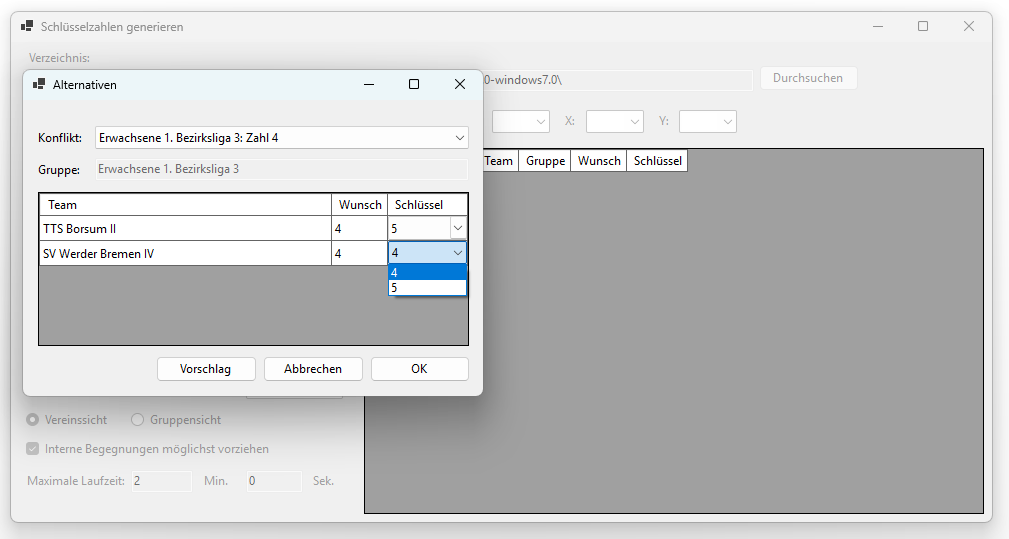
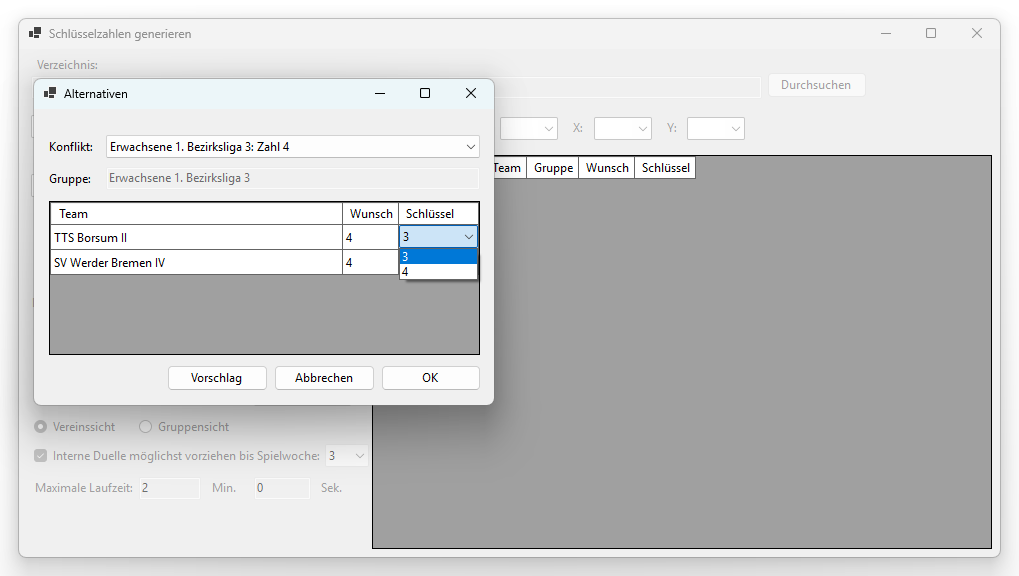
Update screenshots

diff --git a/doc/md/06_generierung.md b/doc/md/06_generierung.md
@@ -13,6 +13,12 @@ Das Kontrollkästchen **Interne Duelle möglichst vorziehen bis Spielwoche:** (u
 3. Vor der Generierung wird automatisch eine Sicherheitskopie des aktuellen Standes angelegt, die Sie bei Bedarf später wiederherstellen können (siehe [7.1 Backup laden](07_sonstige_funktionen.md#71-backup-laden)).
 4. Sie können die Generierung jederzeit über den Button **Abbrechen** vorzeitig beenden. Die Anwendung übernimmt dann die bis dahin beste gefundene Lösung und fährt wie nach einer regulär beendeten Generierung fort (gegebenenfalls mit der Konfliktauflösung). Wurde bis dahin noch keine Lösung gefunden, erscheint die Meldung "Es konnten keine Schlüsselzahlen ermittelt werden!", und der bisherige Stand bleibt erhalten.
 
+> **Ansicht: Fenster „Bitte Warten"**
+>
+> Das Fenster „Bitte Warten" während einer Generierung: verbleibende Zeit, Fortschrittsbalken und die Kennzahlen der bisher besten Lösung.
+>
+> ![Fenster „Bitte Warten" während der Generierung](../png/062-bitte-warten.png)
+
 **Hinweis:** Vor der Generierung wird eine Plausibilitätsprüfung durchgeführt.
 Wenn widersprüchliche Vorgaben erkannt werden (z.B. inkonsistente Spieltagsvorgaben für Teams desselben Vereins in derselben Spielwoche), erscheint eine Fehlermeldung.
 
@@ -30,7 +36,7 @@ Das Fenster zeigt folgende Informationen:
   - **Wunsch**: Die eigentlich gewünschten Schlüsselzahlen der Mannschaft.
   - **Schlüssel**: Dropdown-Menü, über das Sie der Mannschaft eine andere Schlüsselzahl zuweisen können.
 
-Zur Auswahl stehen die ursprünglich gewünschte Schlüsselzahl sowie bis zu zwei ähnliche Schlüsselzahlen, die noch frei sind und zu den Heim-/Auswärtsvorgaben der Mannschaft passen. Die aktuell zugewiesene Schlüsselzahl bleibt ebenfalls auswählbar.
+Zur Auswahl stehen die ursprünglich gewünschte Schlüsselzahl sowie bis zu zwei ähnliche Schlüsselzahlen, die noch frei sind und zu den Heim-/Auswärtsvorgaben der Mannschaft passen. Die aktuell zugewiesene Schlüsselzahl bleibt ebenfalls auswählbar. Angeboten werden nur die gewünschte und dazu ähnliche Schlüsselzahlen, damit jede Mannschaft wie bei der Generierung eine gewünschte oder ähnliche Schlüsselzahl behält. Nach einer Generierung sind darunter immer mindestens so viele Schlüsselzahlen, wie Mannschaften am Konflikt beteiligt sind, sodass jede Mannschaft eine eigene Schlüsselzahl erhalten kann; reichen die zwei ähnlichen Schlüsselzahlen dafür nicht aus, werden weitere freie ähnliche Schlüsselzahlen angeboten.
 
 **Vorschlag:** Über den Button **Vorschlag** können Sie einen automatischen Lösungsvorschlag generieren lassen, der alle Konflikte nach einem festen Verfahren auflöst (bei gleichen Daten ergibt sich stets derselbe Vorschlag). Vorher erscheint ein Warnhinweis: Dies sollten Sie im Interesse der betroffenen Vereine nur zu Testzwecken tun, und nicht zur Ermittlung der finalen Schlüsselzahlen!
 
@@ -41,7 +47,7 @@ Zur Auswahl stehen die ursprünglich gewünschte Schlüsselzahl sowie bis zu zwe
 > ![Fenster „Alternativen" – Konflikte beheben](../png/061-konflikte-auflösen.png)
 
 Klicken Sie auf **OK**, nachdem Sie jeden Konflikt gelöst haben.
-Falls eine Schlüsselzahl in einer Gruppe noch mehrfach vergeben ist (auch an eine Mannschaft außerhalb des Konflikts) oder für eine Mannschaft keine Schlüsselzahl vergeben wurde, erscheint eine entsprechende Fehlermeldung.
+Falls eine Schlüsselzahl in einer Gruppe noch mehrfach vergeben ist (auch an eine Mannschaft außerhalb des Konflikts), für eine Mannschaft keine Schlüsselzahl vergeben wurde oder eine Mannschaft eine Schlüsselzahl hat, die weder die gewünschte noch eine ähnliche ist, erscheint eine entsprechende Fehlermeldung, und das Fenster bleibt geöffnet, damit Sie die Konflikte in einem weiteren Durchgang lösen können.
 Sie können die Konfliktauflösung beenden, indem Sie auf den Button **Abbrechen** klicken oder das Fenster schließen und die Sicherheitsabfrage bestätigen.
 Die verbliebenen Konflikte können zu einem späteren Zeitpunkt über **Sonstiges** → **Konflikte neu auflösen** (siehe [7.4 Konflikte neu auflösen](07_sonstige_funktionen.md#74-konflikte-neu-aufloesen)) aufgelöst werden.
 
@@ -73,11 +79,11 @@ Mithilfe dieser Übersicht können Sie die Schlüsselzahlen in Click-TT oder in 
 >
 > Alle 12 Schlüsselzahlen (1–12) sind genau einmal vergeben – es gibt keine Konflikte.
 > Die Spalte "Wunsch" zeigt die aus der Vereins-Schlüsselzahl abgeleiteten Wunschzahlen.
-> Beim 1. FC Saarbrücken-TT I ist kein Wunsch eingetragen, da der Verein keine vorgegebene Schlüsselzahl und auch keine Spielwoche hatte – die Zeile ist daher weiß, und die Zahl 4 wurde frei zugewiesen.
+> Beim 1. FC Saarbrücken-TT I ist kein Wunsch eingetragen, da der Verein keine vorgegebene Schlüsselzahl und auch keine Spielwoche hatte – die Zeile ist daher weiß, und die Zahl 6 wurde frei zugewiesen.
 
 > **Beispiel: Gruppensicht 1. Bezirksliga 3 Erwachsene nach der Generierung**
 >
-> Die 1. Bezirksliga 3 enthält nach der Generierung einen aufgelösten Konflikt: Die orange markierte Zeile kennzeichnet ein Team, bei dem die zugewiesene Schlüsselzahl von der Wunsch-Schlüsselzahl abweicht. Im Vorfeld wurde ein Konflikt zwischen SV Werder Bremen IV und TTS Borsum II dahingehend aufgelöst, dass Bremen die Schlüsselzahl 4, und Borsum die ähnliche Schlüsselzahl 5 zugewiesen wurde (Abschnitt 6.1 Konflikte beheben).
+> Die 1. Bezirksliga 3 enthält nach der Generierung einen aufgelösten Konflikt: Die orange markierte Zeile kennzeichnet ein Team, bei dem die zugewiesene Schlüsselzahl von der Wunsch-Schlüsselzahl abweicht. Im Vorfeld wurde ein Konflikt zwischen SV Werder Bremen IV und TTS Borsum II dahingehend aufgelöst, dass Bremen die Schlüsselzahl 4, und Borsum die ähnliche Schlüsselzahl 3 zugewiesen wurde (Abschnitt 6.1 Konflikte beheben).
 >
 > ![Gruppensicht mit Konflikt (orange markierte Zeilen)](../png/063-gruppensicht-mit-konflikt.png)
 
@@ -93,7 +99,7 @@ Mithilfe dieser Übersicht können Sie die Schlüsselzahlen in Click-TT oder in 
 > - Alle Teams in Woche B erhalten Schlüsselzahl **1** – die gegenläufige Zahl zu 7 im 12er-Raster.
 > - Alle Teams in Woche X erhalten Schlüsselzahl **1** (Vereins-Schlüsselzahl für Spielwoche X im 10er-Raster).
 > - Alle Teams in Woche Y erhalten Schlüsselzahl **6** – die gegenläufige Zahl zu 1 im 10er-Raster.
-> - **Ausnahme**: Borussia Duesseldorf II in der Jugend 13 hat Schlüsselzahl **10** statt 1, obwohl es in Woche X spielt. Das liegt daran, dass zwei Teams desselben Vereins in derselben Gruppe spielen und daher nicht dieselbe Schlüsselzahl erhalten können. Die Zahl 10 ist im 10er-Raster eine *ähnliche* Schlüsselzahl zu 1.
+> - **Ausnahme**: Borussia Duesseldorf I in der Jugend 13 hat Schlüsselzahl **10** statt 1, obwohl es in Woche X spielt. Das liegt daran, dass zwei Teams desselben Vereins in derselben Gruppe spielen und daher nicht dieselbe Schlüsselzahl erhalten können. Die Zahl 10 ist im 10er-Raster eine *ähnliche* Schlüsselzahl zu 1.
 
 
 

diff --git a/doc-web/md/06_generierung.md b/doc-web/md/06_generierung.md
@@ -42,7 +42,7 @@ Die Seite ist in zwei Bereiche unterteilt:
 | Wunsch | Die eigentlich gewünschte Schlüsselzahl der Mannschaft |
 | Schlüssel | Dropdown-Menü, über das Sie der Mannschaft eine andere Schlüsselzahl zuweisen können |
 
-Zur Auswahl stehen die ursprünglich gewünschte Schlüsselzahl sowie bis zu zwei ähnliche Schlüsselzahlen, die noch frei sind und zu den Heim-/Auswärtsvorgaben der Mannschaft passen. Die aktuell zugewiesene Schlüsselzahl bleibt ebenfalls auswählbar.
+Zur Auswahl stehen die ursprünglich gewünschte Schlüsselzahl sowie bis zu zwei ähnliche Schlüsselzahlen, die noch frei sind und zu den Heim-/Auswärtsvorgaben der Mannschaft passen. Die aktuell zugewiesene Schlüsselzahl bleibt ebenfalls auswählbar. Angeboten werden nur die gewünschte und dazu ähnliche Schlüsselzahlen, damit jede Mannschaft wie bei der Generierung eine gewünschte oder ähnliche Schlüsselzahl behält. Nach einer Generierung sind darunter immer mindestens so viele Schlüsselzahlen, wie Mannschaften am Konflikt beteiligt sind, sodass jede Mannschaft eine eigene Schlüsselzahl erhalten kann; reichen die zwei ähnlichen Schlüsselzahlen dafür nicht aus, werden weitere freie ähnliche Schlüsselzahlen angeboten.
 
 **Vorschlag:** Über den Button **Vorschlag** können Sie einen automatischen Lösungsvorschlag generieren lassen, der alle Konflikte nach einem festen Verfahren auflöst (bei gleichen Daten ergibt sich stets derselbe Vorschlag). Vorher erscheint ein Warnhinweis: Dies sollten Sie im Interesse der betroffenen Vereine nur zu Testzwecken tun, und nicht zur Ermittlung der finalen Schlüsselzahlen!
 
@@ -53,7 +53,7 @@ Zur Auswahl stehen die ursprünglich gewünschte Schlüsselzahl sowie bis zu zwe
 > ![Seite „Konflikte auflösen"](../png/061-konflikte-auflösen.png)
 
 Klicken Sie auf **Anwenden & zur Übersicht**, nachdem Sie jeden Konflikt gelöst haben.
-Falls eine Schlüsselzahl in einer Gruppe noch mehrfach vergeben ist (auch an eine Mannschaft außerhalb des Konflikts) oder für eine Mannschaft keine Schlüsselzahl vergeben wurde, erscheint eine entsprechende Fehlermeldung, und die Seite bleibt geöffnet.
+Falls eine Schlüsselzahl in einer Gruppe noch mehrfach vergeben ist (auch an eine Mannschaft außerhalb des Konflikts), für eine Mannschaft keine Schlüsselzahl vergeben wurde oder eine Mannschaft eine Schlüsselzahl hat, die weder die gewünschte noch eine ähnliche ist, erscheint eine entsprechende Fehlermeldung, und die Seite bleibt geöffnet.
 Sie können die Konfliktauflösung abbrechen, indem Sie über die Seitenleiste zur Übersicht navigieren.
 Die verbliebenen Konflikte können zu einem späteren Zeitpunkt über den Link **Konflikte auflösen** in der Seitenleiste erneut aufgelöst werden (siehe [6.2 Konflikte auflösen](#62-konflikte-aufloesen)).
 
@@ -104,16 +104,16 @@ Mithilfe dieser Übersicht können Sie die Schlüsselzahlen in Click-TT oder in 
 > **Beispiel: Vereinsansicht – Vergabe von parallelen und gegenläufigen Schlüsselzahlen**
 >
 > Der folgende Screenshot zeigt die ermittelten Schlüsselzahlen für die Mannschaften von Borussia Duesseldorf.
-> Durch die Generierung wurden die Vereins-Schlüsselzahlen **A=2, B=8, X=5, Y=10** ermittelt:
+> Durch die Generierung wurden die Vereins-Schlüsselzahlen **A=7, B=1, X=1, Y=6** ermittelt:
 >
 > ![Vereinsansicht nach der Generierung](../png/063-vereinssicht-nach-generierung.png)
 >
 > An diesem Beispiel lassen sich mehrere Aspekte ablesen:
-> - Alle Teams in Woche A erhalten Schlüsselzahl **2** (die Vereins-Schlüsselzahl für Spielwoche A).
-> - Alle Teams in Woche B erhalten Schlüsselzahl **8** – die gegenläufige Zahl zu 2 im 12er-Raster.
-> - Alle Teams in Woche X erhalten Schlüsselzahl **5** (Vereins-Schlüsselzahl für Spielwoche X im 10er-Raster).
-> - Alle Teams in Woche Y erhalten Schlüsselzahl **10** – die gegenläufige Zahl zu 5 im 10er-Raster.
-> - **Ausnahme**: Borussia Duesseldorf II in der Jugend 13 hat Schlüsselzahl **6** statt 5, obwohl es in Woche X spielt. Das liegt daran, dass zwei Teams desselben Vereins in derselben Gruppe spielen und daher nicht dieselbe Schlüsselzahl erhalten können. Die Zahl 6 ist im 10er-Raster eine *ähnliche* Schlüsselzahl zu 5.
+> - Alle Erwachsenen-Teams in Woche A erhalten Schlüsselzahl **7** (die Vereins-Schlüsselzahl für Spielwoche A). Die Damen-Mannschaft spielt ebenfalls in Woche A, aber in einer Gruppe mit Rastergröße 10, und erhält daher die *parallele* Schlüsselzahl **6**.
+> - Alle Teams in Woche B erhalten Schlüsselzahl **1** – die gegenläufige Zahl zu 7 im 12er-Raster.
+> - Alle Teams in Woche X erhalten Schlüsselzahl **1** (Vereins-Schlüsselzahl für Spielwoche X im 10er-Raster).
+> - Alle Teams in Woche Y erhalten Schlüsselzahl **6** – die gegenläufige Zahl zu 1 im 10er-Raster.
+> - **Ausnahme**: Borussia Duesseldorf II in der Jugend 13 hat Schlüsselzahl **10** statt 1, obwohl es in Woche X spielt. Das liegt daran, dass zwei Teams desselben Vereins in derselben Gruppe spielen und daher nicht dieselbe Schlüsselzahl erhalten können. Die Zahl 10 ist im 10er-Raster eine *ähnliche* Schlüsselzahl zu 1.
 
 Zusätzlich können Sie die Ergebnisse über den Link **Ergebnisse exportieren** in der Seitenleiste als CSV-Datei herunterladen (siehe [7.2 Ergebnisse exportieren](07_sonstige_funktionen.md#72-ergebnisse-exportieren)).
 

diff --git a/doc-web/md/A_datenmodell.md b/doc-web/md/A_datenmodell.md
@@ -48,11 +48,11 @@ Zentrale Konzepte:
 >
 > ![Vereinsansicht nach der Generierung](../png/063-vereinssicht-nach-generierung.png)
 >
-> **Gegenläufige Schlüsselzahlen:** Der Verein hat Schlüsselzahl A=2 und B=8 (Referenzraster 12). Die Zahl 8 ist die gegenläufige Zahl zu 2 im 12er-Raster: Wenn Schlüsselzahl 2 an einem bestimmten Spieltag ein Heimspiel vorsieht, hat Schlüsselzahl 8 an diesem Spieltag ein Auswärtsspiel und umgekehrt. Ebenso gilt: X=5 und Y=10 sind gegenläufig im 10er-Raster.
+> **Gegenläufige Schlüsselzahlen:** Der Verein hat Schlüsselzahl A=7 und B=1 (Referenzraster 12). Die Zahl 1 ist die gegenläufige Zahl zu 7 im 12er-Raster: Wenn Schlüsselzahl 7 an einem bestimmten Spieltag ein Heimspiel vorsieht, hat Schlüsselzahl 1 an diesem Spieltag ein Auswärtsspiel und umgekehrt. Ebenso gilt: X=1 und Y=6 sind gegenläufig im 10er-Raster.
 >
-> **Parallele Schlüsselzahlen:** Borussia Duesseldorf I spielt in der Bezirksoberliga (Rastergröße 12) mit Vereins-Schlüsselzahl A=2 und erhält die Mannschafts-Schlüsselzahl 2. Die Damen-Mannschaft spielt dagegen in einer Gruppe mit Rastergröße 10. Auch sie ist in Woche A und erhält ebenfalls Schlüsselzahl 2 – in diesem Fall ist die parallele Schlüsselzahl im 10er-Raster zufällig identisch. Wäre die Damen-Mannschaft der Woche B zugeordnet, würde sie die Schlüsselzahl 7 bekommen, da die Zahl 7 im 10er-Raster parallel zur Zahl 8 im 12er-Raster ist.
+> **Parallele Schlüsselzahlen:** Borussia Duesseldorf I spielt in der Bezirksoberliga (Rastergröße 12) mit Vereins-Schlüsselzahl A=7 und erhält die Mannschafts-Schlüsselzahl 7. Die Damen-Mannschaft spielt dagegen in einer Gruppe mit Rastergröße 10. Auch sie ist in Woche A, erhält aber die Schlüsselzahl 6, da die Zahl 6 im 10er-Raster parallel zur Zahl 7 im 12er-Raster ist. Wäre die Damen-Mannschaft der Woche B zugeordnet, würde sie die Schlüsselzahl 1 bekommen – in diesem Fall wäre die parallele Schlüsselzahl im 10er-Raster zufällig identisch.
 >
-> **Ähnliche Schlüsselzahlen:** In der Jugend 13 2. Bezirksliga 3 spielen zwei Teams des Vereins in derselben Gruppe (Rastergröße 10), und sind beide der Spielwoche X zugeordnet. Das eine Team (Borussia Duesseldorf I) erhält die Schlüsselzahl 5, das andere Team (Borussia Duesseldorf II) kann aber nicht ebenfalls Schlüsselzahl 5 erhalten und bekommt stattdessen die *ähnliche* Schlüsselzahl 6, die einen ähnlichen, aber nicht identischen Spielplan ergibt.
+> **Ähnliche Schlüsselzahlen:** In der Jugend 13 2. Bezirksliga 3 spielen zwei Teams des Vereins in derselben Gruppe (Rastergröße 10), und sind beide der Spielwoche X zugeordnet. Das erste Team erhält die Schlüsselzahl 1, das zweite Team kann aber nicht ebenfalls Schlüsselzahl 1 erhalten und bekommt stattdessen die *ähnliche* Schlüsselzahl 10, die einen ähnlichen, aber nicht identischen Spielplan ergibt.
 
 ## A.5 Spielwochen
 
@@ -66,10 +66,10 @@ Für jede Mannschaft, die einer Spielwoche S zugeordnet ist, ist garantiert, das
 >
 > | Woche | Altersklassen | Ref.-Raster | Vereins-SZ | Anz. Teams |
 > |-------|---------------|-------------|------------|------------|
-> | A | Erwachsene I & II, Damen | 12 | 2 | 3 |
-> | B | Erwachsene III–V | 12 | 8 | 3 |
-> | X | Jugend 19 I & III, 15 I, 13 I & II | 10 | 5 | 5 |
-> | Y | Jugend 19 II & IV, 15 II | 10 | 10 | 3 |
+> | A | Erwachsene I & II, Damen | 12 | 7 | 3 |
+> | B | Erwachsene III–V | 12 | 1 | 3 |
+> | X | Jugend 19 I & III, 15 I, 13 I & II | 10 | 1 | 5 |
+> | Y | Jugend 19 II & IV, 15 II | 10 | 6 | 3 |
 >
 > Die Erwachsenen-Mannschaften I und II und die Damen-Mannschaft spielen in Woche A, die Erwachsenen III–V in der gegenläufigen Woche B. So haben beide Gruppen abwechselnd Heimrecht in der Halle. Die Jugendmannschaften nutzen die Wochen X und Y, die einem anderen Spielrhythmus (Referenzraster 10) folgen.
 

diff --git a/doc/md/09_fehlerbehebung.md b/doc/md/09_fehlerbehebung.md
@@ -16,7 +16,7 @@ Die folgende Tabelle enthält eine Übersicht über häufig auftretende Fehler u
 | Fehlermeldung "Die Gruppe … ist voll (Raster …). Es kann keine weitere Mannschaft hinzugefügt werden." | Die Gruppe enthält bereits so viele Mannschaften, wie ihre Rastergröße zulässt; die Mannschaft wird nicht hinzugefügt. Erhöhen Sie zunächst die Rastergröße der Gruppe (siehe [4.2 Manueller Datenimport: Gruppentabelle](04_datenimport.md#linke-seite-gruppentabelle)) und fügen Sie die Mannschaft anschließend hinzu. |
 | Fehlermeldung "Ungültige Eingabe: Der Teamname muss mit dem Vereinsnamen (…) beginnen!" beim Umbenennen einer Mannschaft | Der neue Teamname beginnt nicht mit dem Namen des Vereins; die Eingabe wird automatisch zurückgesetzt. Behalten Sie den Vereinsnamen am Anfang des Teamnamens bei (z.B. "Borussia Duesseldorf II", siehe [4.2 Manueller Datenimport: Mannschaftstabelle](04_datenimport.md#rechte-seite-mannschaftstabelle)). |
 | Eingetragene Vereins-Schlüsselzahl wird nicht übernommen | Die Zahl liegt außerhalb des Referenzrasters der Spielwoche (also nicht zwischen 1 und der Rastergröße des Referenzrasters A/B bzw. X/Y) und wird abgewiesen. Tragen Sie eine Zahl aus diesem Bereich ein (siehe [4.2 Manueller Datenimport: Vereinstabelle](04_datenimport.md#mittlere-seite-vereinstabelle)). |
-| Fehlermeldung beim Klick auf **OK** im Fenster "Alternativen" | Es gibt noch ungelöste Konflikte (eine Schlüsselzahl ist in einer Gruppe mehrfach vergeben, auch an eine Mannschaft außerhalb des Konflikts) oder eine Mannschaft hat keine Schlüsselzahl. Die Meldung nennt die betroffenen Mannschaften, und das Fenster bleibt geöffnet. Weisen Sie die Schlüsselzahlen so zu, dass jede Mannschaft eine Schlüsselzahl hat und jede Schlüsselzahl in der Gruppe nur einmal vergeben ist, und klicken Sie erneut auf **OK** (siehe [6.1 Konflikte beheben](06_generierung.md#61-konflikte-beheben)). |
+| Fehlermeldung beim Klick auf **OK** im Fenster "Alternativen" | Es gibt noch ungelöste Konflikte (eine Schlüsselzahl ist in einer Gruppe mehrfach vergeben, auch an eine Mannschaft außerhalb des Konflikts) , eine Mannschaft hat keine Schlüsselzahl, oder eine Mannschaft hat eine Schlüsselzahl, die weder ihre gewünschte noch eine ähnliche ist. Die Meldung nennt die betroffenen Mannschaften, und das Fenster bleibt geöffnet. Weisen Sie die Schlüsselzahlen so zu, dass jede Mannschaft eine gewünschte oder ähnliche Schlüsselzahl hat und jede Schlüsselzahl in der Gruppe nur einmal vergeben ist, und klicken Sie erneut auf **OK** (siehe [6.1 Konflikte beheben](06_generierung.md#61-konflikte-beheben)). |
 | Frage "Wollen Sie die Konfliktauflösung wirklich verlassen? Es bleiben ungelöste Konflikte." beim Schließen des Fensters "Alternativen" | Das ist erwartetes Verhalten: Beim Schließen des Fensters (über **Abbrechen** oder das Schließen-Symbol) wird stets nachgefragt. Mit **Ja** wird die Konfliktauflösung beendet; die verbliebenen Konflikte können später über **Sonstiges** → **Konflikte neu auflösen** aufgelöst werden. Mit **Nein** bleibt das Fenster geöffnet. |
 | Frage "Wollen Sie die Änderungen speichern?" beim Schließen des Fensters "click-tt Import" oder "Dateninput" | Das ist erwartetes Verhalten: Seit dem letzten Speichern wurden Daten importiert oder geändert. Wählen Sie **Ja**, um die Änderungen zu speichern, **Nein**, um sie zu verwerfen, oder **Abbrechen**, um im Fenster zu bleiben. Ohne ungespeicherte Änderungen schließt das Fenster ohne Rückfrage (siehe [4.1 Import aus Click-TT](04_datenimport.md#41-import-aus-click-tt) und [4.2 Manueller Datenimport](04_datenimport.md#42-manueller-datenimport)). |
 | Button "Generieren" ist nicht aktiviert | Stellen Sie sicher, dass Daten geladen oder importiert wurden. |

diff --git a/doc-web/md/09_fehlerbehebung.md b/doc-web/md/09_fehlerbehebung.md
@@ -16,7 +16,7 @@ Die folgende Tabelle enthält eine Übersicht über häufig auftretende Fehler u
 | Schaltfläche **+ Team** ist deaktiviert (Tooltip "Gruppe voll — erst Raster erhöhen") | Die Gruppe enthält bereits so viele Mannschaften, wie ihre Rastergröße zulässt; es kann keine weitere Mannschaft hinzugefügt werden. Erhöhen Sie zunächst die Rastergröße der Gruppe (siehe [4. Manuelle Eingabe: Gruppentabelle](04_manuelle_eingabe.md#linke-spalte-gruppentabelle)) und fügen Sie die Mannschaft anschließend hinzu. |
 | Fehlermeldung "Ungültige Eingabe: Der Teamname muss mit dem Vereinsnamen (…) beginnen!" beim Umbenennen einer Mannschaft | Der neue Teamname beginnt nicht mit dem Namen des Vereins; die Eingabe wird automatisch zurückgesetzt. Behalten Sie den Vereinsnamen am Anfang des Teamnamens bei (z.B. "Borussia Duesseldorf II", siehe [4. Manuelle Eingabe: Mannschaftstabelle](04_manuelle_eingabe.md#rechte-spalte-mannschaftstabelle)). |
 | Eingetragene Vereins-Schlüsselzahl wird nicht übernommen | Die Zahl liegt außerhalb des Referenzrasters der Spielwoche (also nicht zwischen 1 und der Rastergröße des Referenzrasters A/B bzw. X/Y) und wird abgewiesen. Tragen Sie eine Zahl aus diesem Bereich ein (siehe [4. Manuelle Eingabe: Vereinstabelle](04_manuelle_eingabe.md#linke-spalte-vereinstabelle)). |
-| Fehlermeldung beim Klick auf **Anwenden & zur Übersicht** auf der Seite "Konflikte auflösen" | Es gibt noch ungelöste Konflikte (eine Schlüsselzahl ist in einer Gruppe mehrfach vergeben, auch an eine Mannschaft außerhalb des Konflikts) oder eine Mannschaft hat keine Schlüsselzahl. Die Meldung nennt die betroffenen Mannschaften, und die Seite bleibt geöffnet. Weisen Sie die Schlüsselzahlen so zu, dass jede Mannschaft eine Schlüsselzahl hat und jede Schlüsselzahl in der Gruppe nur einmal vergeben ist, und klicken Sie erneut auf **Anwenden & zur Übersicht** (siehe [6.1 Konflikte beheben](06_generierung.md#61-konflikte-beheben)). |
+| Fehlermeldung beim Klick auf **Anwenden & zur Übersicht** auf der Seite "Konflikte auflösen" | Es gibt noch ungelöste Konflikte (eine Schlüsselzahl ist in einer Gruppe mehrfach vergeben, auch an eine Mannschaft außerhalb des Konflikts) , eine Mannschaft hat keine Schlüsselzahl, oder eine Mannschaft hat eine Schlüsselzahl, die weder ihre gewünschte noch eine ähnliche ist. Die Meldung nennt die betroffenen Mannschaften, und die Seite bleibt geöffnet. Weisen Sie die Schlüsselzahlen so zu, dass jede Mannschaft eine gewünschte oder ähnliche Schlüsselzahl hat und jede Schlüsselzahl in der Gruppe nur einmal vergeben ist, und klicken Sie erneut auf **Anwenden & zur Übersicht** (siehe [6.1 Konflikte beheben](06_generierung.md#61-konflikte-beheben)). |
 | Schaltfläche "Generieren" ist nicht aktiviert | Stellen Sie sicher, dass Daten geladen oder importiert wurden und die Übersicht geöffnet ist. |
 | Schritt 2 ("Terminmeldung laden") auf der Datenimport-Seite ist nicht aktiviert | Stellen Sie sicher, dass zunächst eine CSV-Datei mit der Gruppenstruktur geladen wurde (Schritt 1 auf der Datenimport-Seite). Alternativ kann auch ein gespeicherter Zwischenstand über Schritt 3 ("Zwischenstand aus Datei laden") geladen werden, ohne dass Schritt 1 abgeschlossen sein muss. |
 | Fehlermeldung "Das Referenzraster … wird von der aktuellen Konfiguration nicht unterstützt" beim Laden einer Datei | Die Datei verwendet ein Referenzraster, für das die aktuelle Konfiguration keinen Spielplan enthält. Importieren und übernehmen Sie die Konfiguration, mit der die Datei erstellt wurde (siehe [7.4 Konfiguration bearbeiten](07_sonstige_funktionen.md#74-konfiguration-bearbeiten)), und laden Sie die Datei erneut. |

diff --git a/doc/md/07_sonstige_funktionen.md b/doc/md/07_sonstige_funktionen.md
@@ -87,6 +87,12 @@ Sie kann im Programm bearbeitet, als Datei gespeichert und auf einem anderen Rec
 
 Mit **Standard laden** wird die mitgelieferte Standardkonfiguration in das Fenster geladen; übernommen wird sie erst mit **Übernehmen**.
 
+> **Ansicht: Fenster „Konfiguration"**
+>
+> Das Fenster „Konfiguration" mit einer noch nicht übernommenen, fehlerhaften Änderung im Spielplan für Raster 12: Die Zeile **Heim : Auswärts** ist am ersten Spieltag rot hinterlegt, und unter **Plausibilitätsprüfung** sind die gefundenen Probleme aufgelistet.
+>
+> ![Fenster „Konfiguration" mit Plausibilitätsprüfung](../png/075-konfiguration.png)
+
 **Plausibilitätsprüfung:** Beim Importieren, Prüfen, Übernehmen und Exportieren wird die Konfiguration geprüft. Neben Formfehlern (z.B. leere Altersklassen oder widersprüchliche Rastergrößen) wird geprüft, dass
 - jede gerade Rastergröße von der minimalen bis zur maximalen Rastergröße einen vollständigen Spielplan hat, also eine Zeile für jede Schlüsselzahl; die minimale Rastergröße muss gerade sein,
 - jede Schlüsselzahl an jedem Spieltag ihres Rasters ein Heim- oder Auswärtsspiel hat (bei Raster n sind das n − 1 Spieltage),

diff --git a/doc-web/md/04_manuelle_eingabe.md b/doc-web/md/04_manuelle_eingabe.md
@@ -15,7 +15,7 @@ Die Seite ist in zwei nebeneinander angeordnete Bereiche unterteilt: eine linke 
 >
 > Die Seite "Manuelle Eingabe" im Ausgangszustand: Links oben die noch leere Gruppentabelle, links unten die noch leere Vereinstabelle. Die rechte Spalte mit der Mannschaftstabelle erscheint erst, wenn eine Gruppe oder ein Verein ausgewählt wird.
 >
-> ![Seite „Manuelle Eingabe" – leere Seite](../png/041-click-tt-import-leer.png)
+> ![Seite „Manuelle Eingabe" – leere Seite](../png/042-manuell-leer.png)
 
 ## Linke Spalte: Gruppentabelle
 
